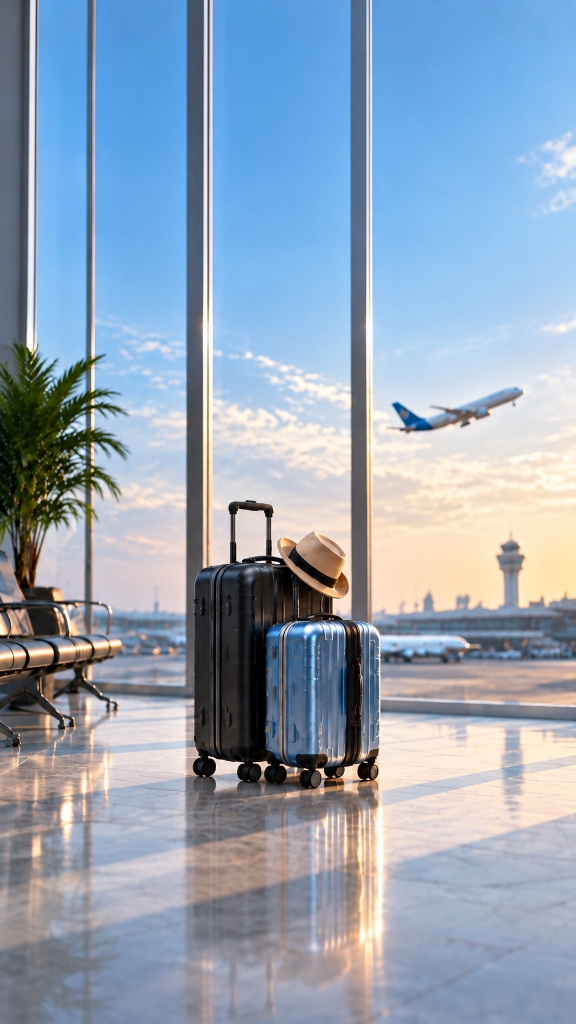
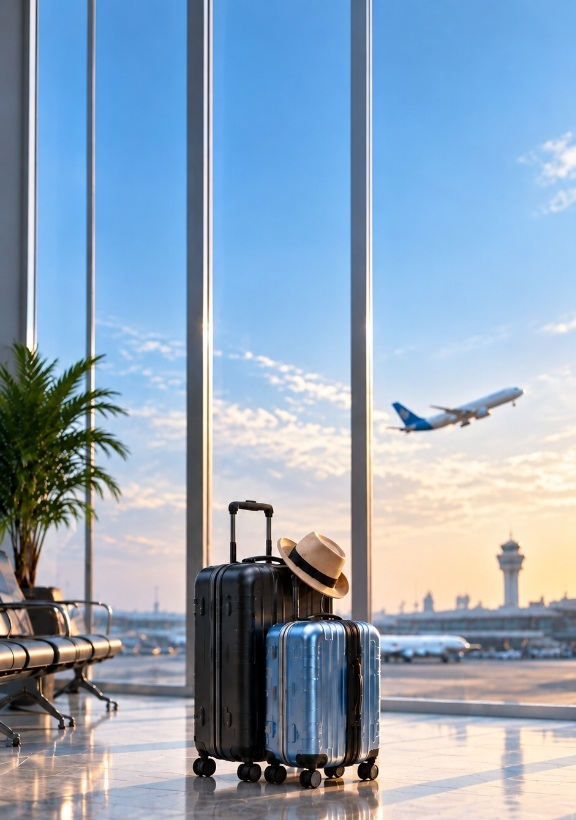
hero crop

diff --git a/components/mobile-home/MobileHero.jsx b/components/mobile-home/MobileHero.jsx
@@ -51,7 +51,7 @@ export default function MobileHero() {
   const currentSlide = heroSlides[slideIndex] || heroSlides[0];
 
   return (
-    <section className="relative w-full min-h-[92vh] flex flex-col justify-between overflow-hidden">
+    <section className="relative w-full min-h-[78vh] flex flex-col justify-between overflow-hidden">
       {/* Background Portrait Image */}
       <div className="absolute inset-0 z-0">
         <Image
@@ -59,14 +59,14 @@ export default function MobileHero() {
           alt="Luggage at airport ready for delivery"
           fill
           priority
-          className="object-cover object-center"
+          className="object-cover object-top"
         />
         {/* Subtle gradient overlay for contrast */}
         <div className="absolute inset-0 bg-gradient-to-b from-black/10 via-black/15 to-black/50" />
       </div>
 
       {/* Content Container */}
-      <div className="relative z-10 px-4 pt-2 pb-14 flex flex-col justify-start flex-1">
+      <div className="relative z-10 px-4 pt-12 pb-8 flex flex-col justify-start flex-1">
         {/* TOP CARD: Send Your Luggage Across India */}
         <motion.div
           initial={{ opacity: 0, y: -15 }}
@@ -148,7 +148,7 @@ export default function MobileHero() {
         </motion.div>
 
         {/* BOTTOM HERO TEXT OVER IMAGE - Slides Title & Desc from HeroSlider */}
-        <div className="mt-8 text-white text-left px-1">
+        <div className="mt-12 text-white text-left px-1">
           <AnimatePresence mode="wait">
             <motion.div
               key={slideIndex}
@@ -156,7 +156,7 @@ export default function MobileHero() {
               animate={{ opacity: 1, y: 0 }}
               exit={{ opacity: 0, y: -15 }}
               transition={{ duration: 0.5 }}
-              className="min-h-[110px]"
+              className="min-h-[100px]"
             >
               <h1 className="text-2xl sm:text-3xl font-extrabold leading-tight mb-2 tracking-tight drop-shadow-md">
                 {currentSlide.title}
@@ -169,7 +169,7 @@ export default function MobileHero() {
 
           <Link
             href="/rate-calculator"
-            className="inline-flex items-center gap-2 bg-[#013EFE] hover:bg-blue-700 mt-4 text-white text-sm font-semibold px-6 py-2.5 rounded-full shadow-md transition-transform active:scale-95"
+            className="inline-flex items-center gap-2 bg-[#013EFE] hover:bg-blue-700 mt-3 text-white text-sm font-semibold px-6 py-2.5 rounded-full shadow-md transition-transform active:scale-95"
           >
             Get Quote
           </Link>

diff --git a/components/HowYourBagsTravel.jsx b/components/HowYourBagsTravel.jsx
@@ -67,6 +67,12 @@ export default function HowYourBagsTravel({ variant = "both" }) {
           width: 0px !important;
           height: 0px !important;
         }
+        .mobile-bags-swiper,
+        .mobile-bags-swiper .swiper-wrapper,
+        .mobile-bags-swiper .swiper-slide {
+          touch-action: pan-y !important;
+          pointer-events: none !important;
+        }
       `}</style>
 
       {/* ============================================================
@@ -180,7 +186,7 @@ export default function HowYourBagsTravel({ variant = "both" }) {
           </div>
 
           {/* Mobile vertical Swiper container */}
-          <div className="w-full" style={{ height: "460px" }}>
+          <div className="w-full pointer-events-none" style={{ height: "460px", touchAction: "pan-y" }}>
             <Swiper
               modules={[Autoplay]}
               direction="vertical"
@@ -189,6 +195,7 @@ export default function HowYourBagsTravel({ variant = "both" }) {
               autoplay={{
                 delay: 2800,
                 disableOnInteraction: false,
+                pauseOnMouseEnter: false,
               }}
               allowTouchMove={false}
               simulateTouch={false}
@@ -196,7 +203,7 @@ export default function HowYourBagsTravel({ variant = "both" }) {
               touchMoveStopPropagation={false}
               slidesPerView={1}
               spaceBetween={20}
-              className="bags-swiper w-full h-full touch-pan-y"
+              className="bags-swiper mobile-bags-swiper w-full h-full pointer-events-none touch-pan-y"
             >
               {allSlides.map((item, idx) => (
                 <SwiperSlide key={idx} className="h-full">

diff --git a/components/Header.jsx b/components/Header.jsx
@@ -159,19 +159,6 @@ export default function Header() {
               transition={{ duration: 0.8 }}
               className="relative"
             >
-              {/* Pulse Glow */}
-              <motion.div
-                animate={{
-                  scale: [1, 1.2, 1],
-                  opacity: [0.4, 0.7, 0.4],
-                }}
-                transition={{
-                  duration: 2,
-                  repeat: Infinity,
-                }}
-                className="absolute inset-0 rounded-full bg-blue-500 blur-xl"
-              />
-
               {/* Main Button */}
               <Link
                 href="/track-your-package"
@@ -189,7 +176,6 @@ export default function Header() {
                   text-white
                   font-semibold
                   text-[14px]
-                  shadow-[0_10px_35px_rgba(37,99,235,0.5)]
                   flex
                   items-center
                   gap-2
